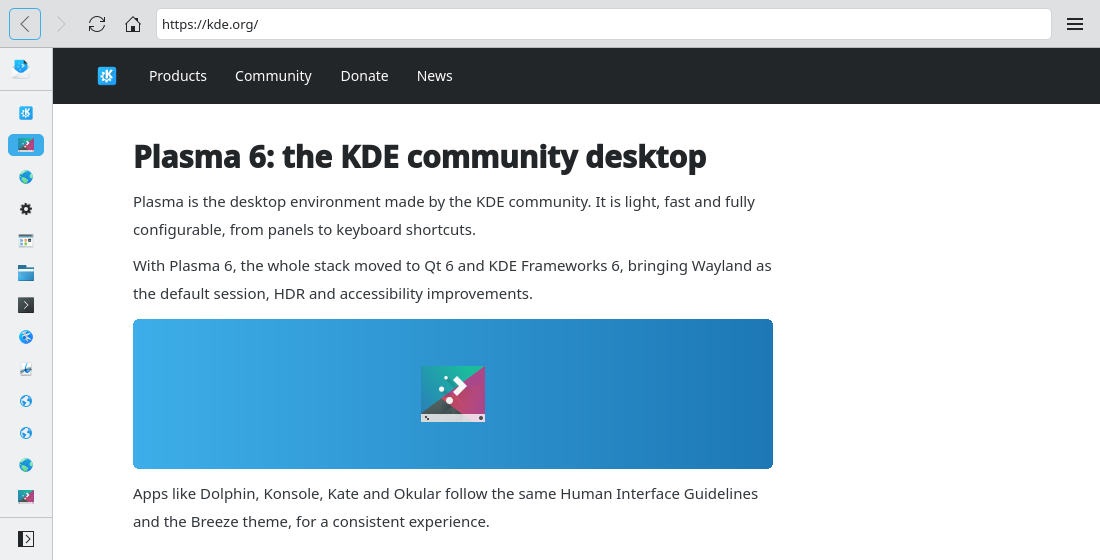
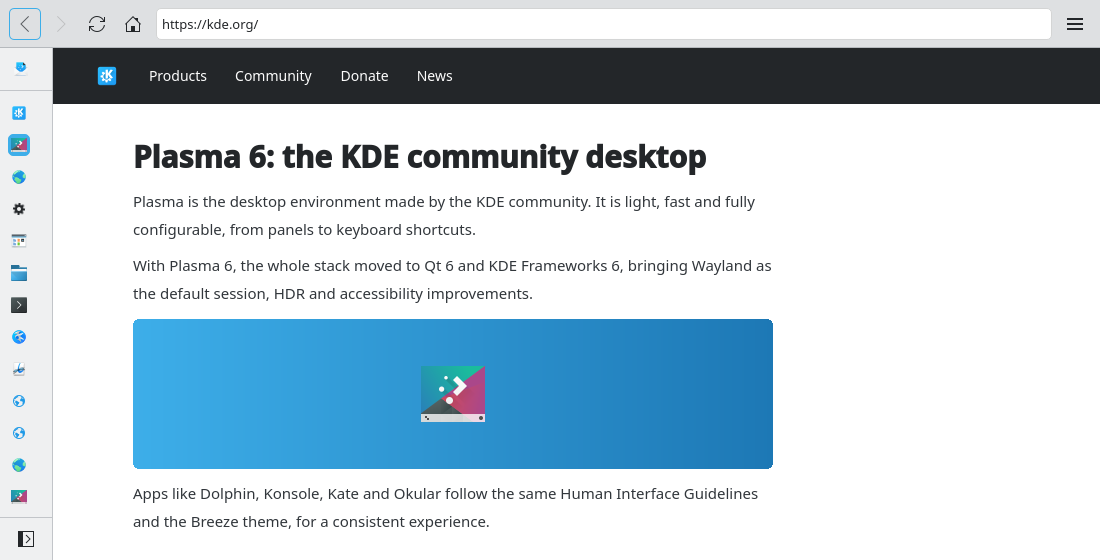
docs: check hover, current and focus states of every item; square collapsed side bar rows (#266)

diff --git a/prototypes/common/TabStyleFrame.qml b/prototypes/common/TabStyleFrame.qml
@@ -172,7 +172,9 @@ Rectangle {
     component VerticalTab: ItemDelegate {
         required property var modelData
         required property int index
-        width: ListView.view ? ListView.view.width : implicitWidth
+        readonly property real listWidth: ListView.view ? ListView.view.width : implicitWidth
+        width: frame.sideBarCollapsed ? height : listWidth
+        x: frame.sideBarCollapsed ? Math.round((listWidth - width) / 2) : 0
         readonly property int tabIndex: index + frame.pinnedTabs.length
         highlighted: tabIndex === frame.currentTab
         contentItem: TabContent {

diff --git a/docs/agents/architect.md b/docs/agents/architect.md
@@ -113,6 +113,10 @@ screenshot. The developer's implementation must match it visually.
    `qsTr()`, shortcuts table in README, CMake/workflow updates for new deps).
 4. Privacy — nothing from a private tab may ever touch disk.
 5. Visual parity with the prototype, and the `kde-ux` checklist for any UI state the prototype does not show.
+   Run the app and look at every clickable item in its **normal, hover, current/checked and keyboard-focus**
+   states, in every layout the change touches (tab styles, collapsed side bar). The highlight must fit
+   the item's shape, like a Breeze button of the same size, and a focus ring shows only for keyboard focus (#266). Prototypes show the current state
+   too, never only the normal one.
 6. Branch based on current `main`, Conventional Commits, `Closes #N` in the PR body.
 7. Leave concrete comments (file:line, why, suggested fix) as a PR review; one verdict:
    approve + squash-merge, or request changes (`to-dev`).

diff --git a/docs/agents/developer.md b/docs/agents/developer.md
@@ -39,6 +39,8 @@ git -C ../kondor-<N> fetch origin && git -C ../kondor-<N> rebase origin/main   #
 1. Implement exactly the spec; "Out of scope" is binding. Match the prototype visually.
    For any UI state the prototype does not show (errors, empty, long text, keyboard, screen
    reader), load the `kde-ux` skill (`~/.claude/skills/kde-ux/`) and follow its checklist.
+   Before opening the PR, run the app and check every clickable item you added or changed in its
+   normal, hover, current/checked and keyboard-focus states (#266).
 2. Run the checks from `AGENTS.md` → "Which checks a change needs". When the C++ checks apply:
    build (`cmake -S . -B build && cmake --build build --parallel 4`, never a bare `--parallel`) with no new warnings, run
    the offscreen smoke test from `AGENTS.md` (isolated `XDG_*` dirs, never the real profile) without QML errors, and

diff --git a/docs/agents/qa.md b/docs/agents/qa.md
@@ -50,6 +50,9 @@ run, whether parity mode is on, and the bug limit. Stop after the report.
 - **Check:** the screen against the spec and its prototype screenshot
   (`prototypes/screenshots/`), stderr for QML errors and tracebacks, and the files the app wrote
   (`Kondor.conf`, `kondor.sqlite` read with `sqlite3` or `python3 -c`, downloaded files).
+- **States:** for every screen, hover (`xdotool mousemove`) and select items and take a screenshot
+  of each state. A hover or current highlight that is cut, off-center or a different shape from a
+  Breeze button of the same size, or a focus ring after a mouse click, is a bug (#266).
 - **Privacy:** after every scenario with a private window, compare the XDG folders before and
   after. Anything a private window wrote to disk is a `priority: high` bug.
 
